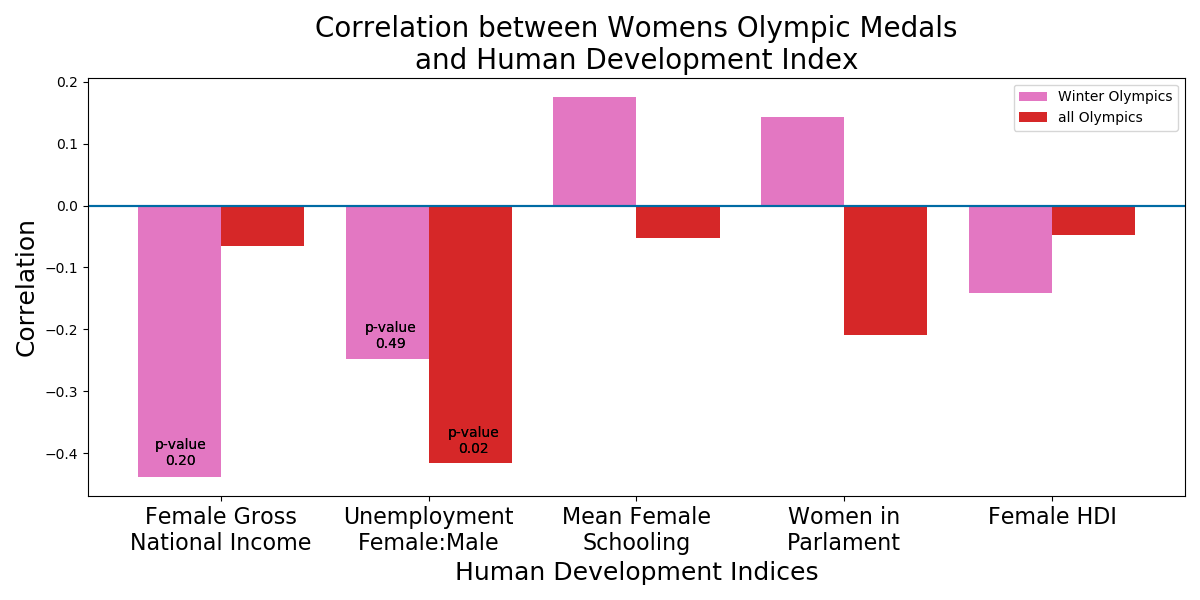
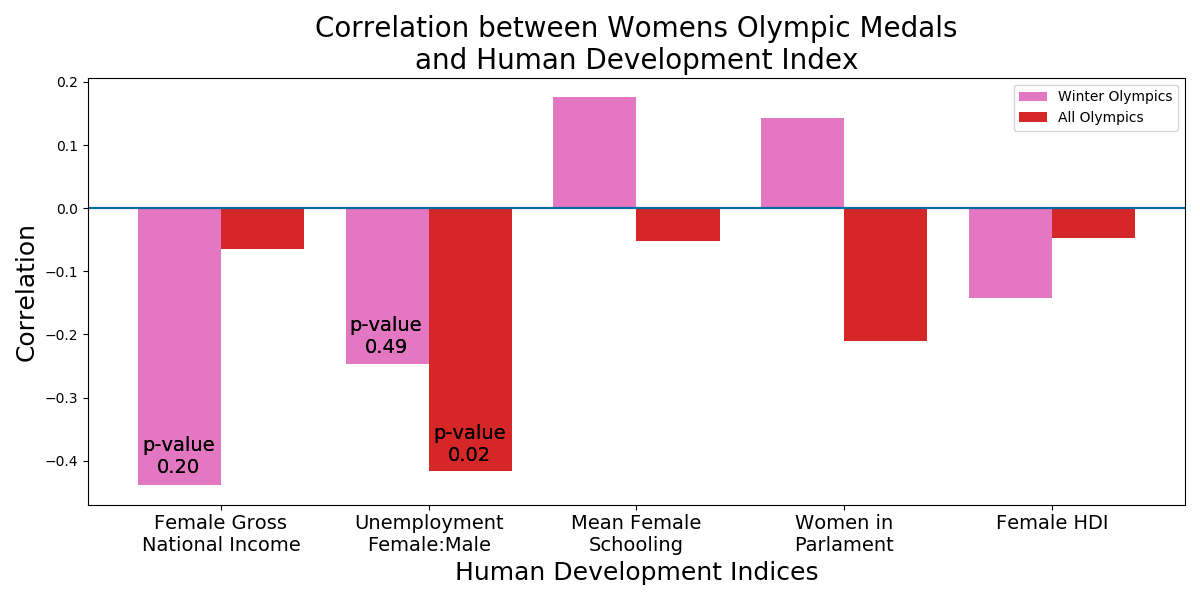
increase font sizes on annotations

diff --git a/src/medals_plots.py b/src/medals_plots.py
@@ -172,9 +172,11 @@ def plot_bar_year_overlay(df_obj, save_on=True):
     ax3_b = ax3_a.twinx()
     ax3_b = percent_plot(year, y, df_obj.season, ax3_b, color='tab:pink',
                          label='Percent Womens Events')
-    ax3_b.annotate('No Olympics\ndue to WWII', (1938, 8))
-    ax3_b.annotate('Olympic Games\non different\ncylces', (1988, 33),
-                   multialignment='center')
+    ax3_b.annotate('Olympics\ncanceled\ndurring\nWWII', (1938, 6),
+                   multialignment='center', fontsize=14)
+    # ax3_b.annotate('Olympic\nGames on\ndifferent\n4-year\ncylces', (1986.5, 6),
+    #                multialignment='center', fontsize=14, 
+    #                bbox=dict(facecolor='white', edgecolor='black'))
     if save_on:
         plt.savefig(f'../images/{df_obj.season}/no-mix-count-year-plot.png')
     y = df_obj.annual_medals_mixed_df['%_womens_events']
@@ -278,7 +280,7 @@ def plot_hdi_corrs(hdi_list, corr_df, labels_dict, season, ax=None,
     labels_txt = [labels_dict[elem] for elem in labels_num]
     if ax is None:
         fig, ax = plt.subplots(1, figsize=(12, 6))
-        width = 0.75
+        width = -0.4
     else:
         width = 0.4
     if season == 'winter':
@@ -286,9 +288,9 @@ def plot_hdi_corrs(hdi_list, corr_df, labels_dict, season, ax=None,
         label = 'Winter Olympics'
     else:
         c = 'tab:red'
-        label = 'all Olympics'
-    ax.bar(x, y, width=width, align='center', color=c, label=label)
-    ax.set_xticklabels(labels_txt, fontsize=16)
+        label = 'All Olympics'
+    ax.bar(x, y, width=width, align='edge', color=c, label=label)
+    ax.set_xticklabels(labels_txt, fontsize=14)
     ax.set_xticks(x)
     ax.axhline(y=0)
     ax.set_xlabel('Human Development Indices', fontsize=18)
@@ -296,12 +298,12 @@ def plot_hdi_corrs(hdi_list, corr_df, labels_dict, season, ax=None,
     ax.set_title('Correlation between Womens Olympic Medals\nand' +
                  ' Human Development Index', fontsize=20)
     ax.legend()
-    ax.annotate('p-value\n0.20', (-0.32, -0.42),
-                multialignment='center')
-    ax.annotate('p-value\n0.49', (0.69, -0.23),
-                multialignment='center')
-    ax.annotate('p-value\n0.02', (1.09, -0.4),
-                multialignment='center')
+    ax.annotate('p-value\n0.20', (-0.38, -0.42),
+                multialignment='center', fontsize=14)
+    ax.annotate('p-value\n0.49', (0.62, -0.23),
+                multialignment='center', fontsize=14)
+    ax.annotate('p-value\n0.02', (1.02, -0.4),
+                multialignment='center', fontsize=14)
     plt.tight_layout()
     if save_on:
         plt.savefig(f'../images/{season}/HDI_correlations.png')

diff --git a/src/winter_medals.py b/src/winter_medals.py
@@ -271,8 +271,9 @@ if __name__ == '__main__':
         '../data/summer_olympics/athlete_events.csv', 'all', code_dict
         )
 
-    make_all_plots(winter_dataframes, False)
-    make_all_plots(all_olympics_dataframes, False)
+    # make_all_plots(winter_dataframes, False)
+    # make_all_plots(all_olympics_dataframes, False)
+    medals_plots.plot_bar_year_overlay(winter_dataframes, True)
 
     female_indicator_codes = [23906, 24106, 48706, 120606,
                               123306, 123506, 136906, 169706, 169806,
@@ -288,17 +289,17 @@ if __name__ == '__main__':
                    'Female Gross\nNational Income', 136906: 'Female HDI',
                    24106: 'Mean Female\nSchooling', 169706:
                    'Unemployment\nFemale:Male'}
-    corr_ax = medals_plots.plot_hdi_corrs(hdi_list, winter_corr,
-                                          labels_dict, 'winter',
-                                          save_on=False)
-    medals_plots.plot_hdi_corrs(hdi_list, all_olympics_corr, labels_dict,
-                                'all', corr_ax, save_on=False)
+    # corr_ax = medals_plots.plot_hdi_corrs(hdi_list, winter_corr,
+    #                                       labels_dict, 'winter',
+    #                                       save_on=False)
+    # medals_plots.plot_hdi_corrs(hdi_list, all_olympics_corr, labels_dict,
+                                # 'all', corr_ax, save_on=True)
 
     x = all_olympics_hdi['all_medals_%_women']
     y = all_olympics_hdi[169706]
     label_list = ['Female GNI', '% Winter Olympic Medals']
-    medals_plots.scatter_corr(x, y, label_list,
-                              save_as='../images/winter/GNI-scatter.png',
-                              save_on=False)
+    # medals_plots.scatter_corr(x, y, label_list,
+                            #   save_as='../images/winter/GNI-scatter.png',
+                            #   save_on=False)
 
     plt.show()

diff --git a/README.md b/README.md
@@ -11,13 +11,13 @@ By evaluating women's events in the olympics over time I hope to discern if any 
 
 A table containing all the medals awarded at the Winter Olympics, and including information about the year, gender, country, and event was obtained from [data.world.](https://data.world/makeovermonday/2018w7-the-winter-olympics) 
 
-|    |   Year | Sport                | Event               | Country     | Gender   |   Medal Rank | Medal   | Name of Athlete or Team   |   Age of Athlete |
-|---:|-------:|:---------------------|:--------------------|:------------|:---------|-------------:|:--------|:--------------------------|-----------------:|
-|  0 |   1924 | Bobsled              | Men's Four/Five     | Switzerland | Men      |            1 | gold    | Switzerland-1             |              nan |
-|  1 |   1924 | Bobsled              | Men's Four/Five     | Britain     | Men      |            2 | silver  | Britain-1                 |              nan |
-|  2 |   1924 | Bobsled              | Men's Four/Five     | Belgium     | Men      |            3 | bronze  | Belgium-1                 |              nan |
-|  3 |   1924 | Cross-Country Skiing | Men's 18 Kilometers | Norway      | Men      |            1 | gold    | Thorleif Haug             |               29 |
-|  4 |   1924 | Cross-Country Skiing | Men's 18 Kilometers | Norway      | Men      |            2 | silver  | Johan GrÃ¸ttumsbraaten    |               24 |
+|   Year | Sport                | Event               | Country     | Gender   |   Medal Rank | Medal   | Name of Athlete or Team   |   Age of Athlete |
+|-------:|:---------------------|:--------------------|:------------|:---------|-------------:|:--------|:--------------------------|-----------------:|
+|   1924 | Bobsled              | Men's Four/Five     | Switzerland | Men      |            1 | gold    | Switzerland-1             |              nan |
+|   1924 | Bobsled              | Men's Four/Five     | Britain     | Men      |            2 | silver  | Britain-1                 |              nan |
+|   1924 | Bobsled              | Men's Four/Five     | Belgium     | Men      |            3 | bronze  | Belgium-1                 |              nan |
+|   1924 | Cross-Country Skiing | Men's 18 Kilometers | Norway      | Men      |            1 | gold    | Thorleif Haug             |               29 |
+|   1924 | Cross-Country Skiing | Men's 18 Kilometers | Norway      | Men      |            2 | silver  | Johan GrÃ¸ttumsbraaten    |               24 |
 
 _showing first five rows_
 
